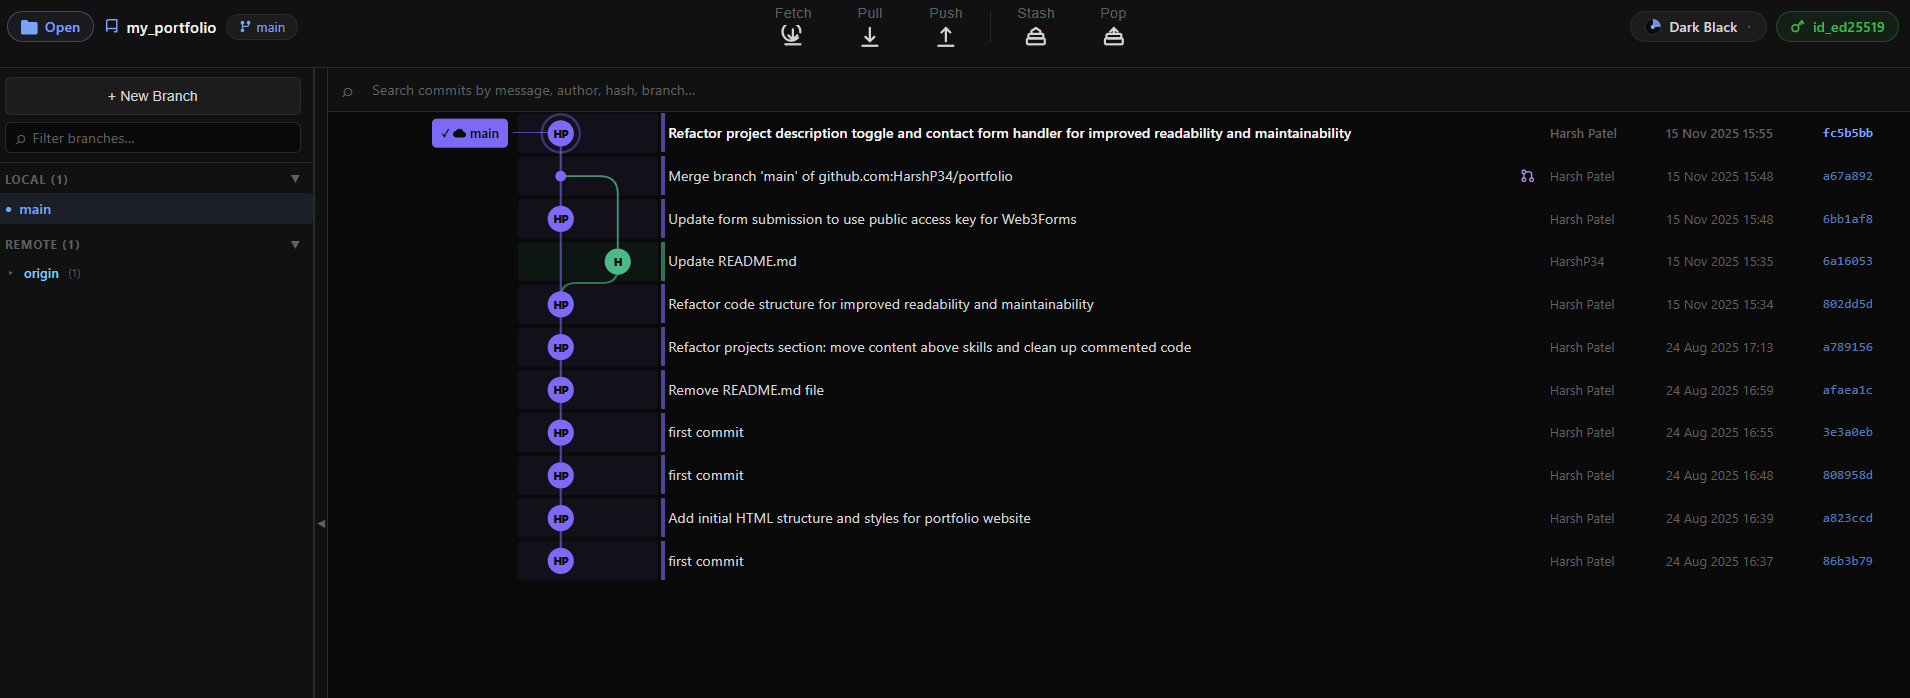
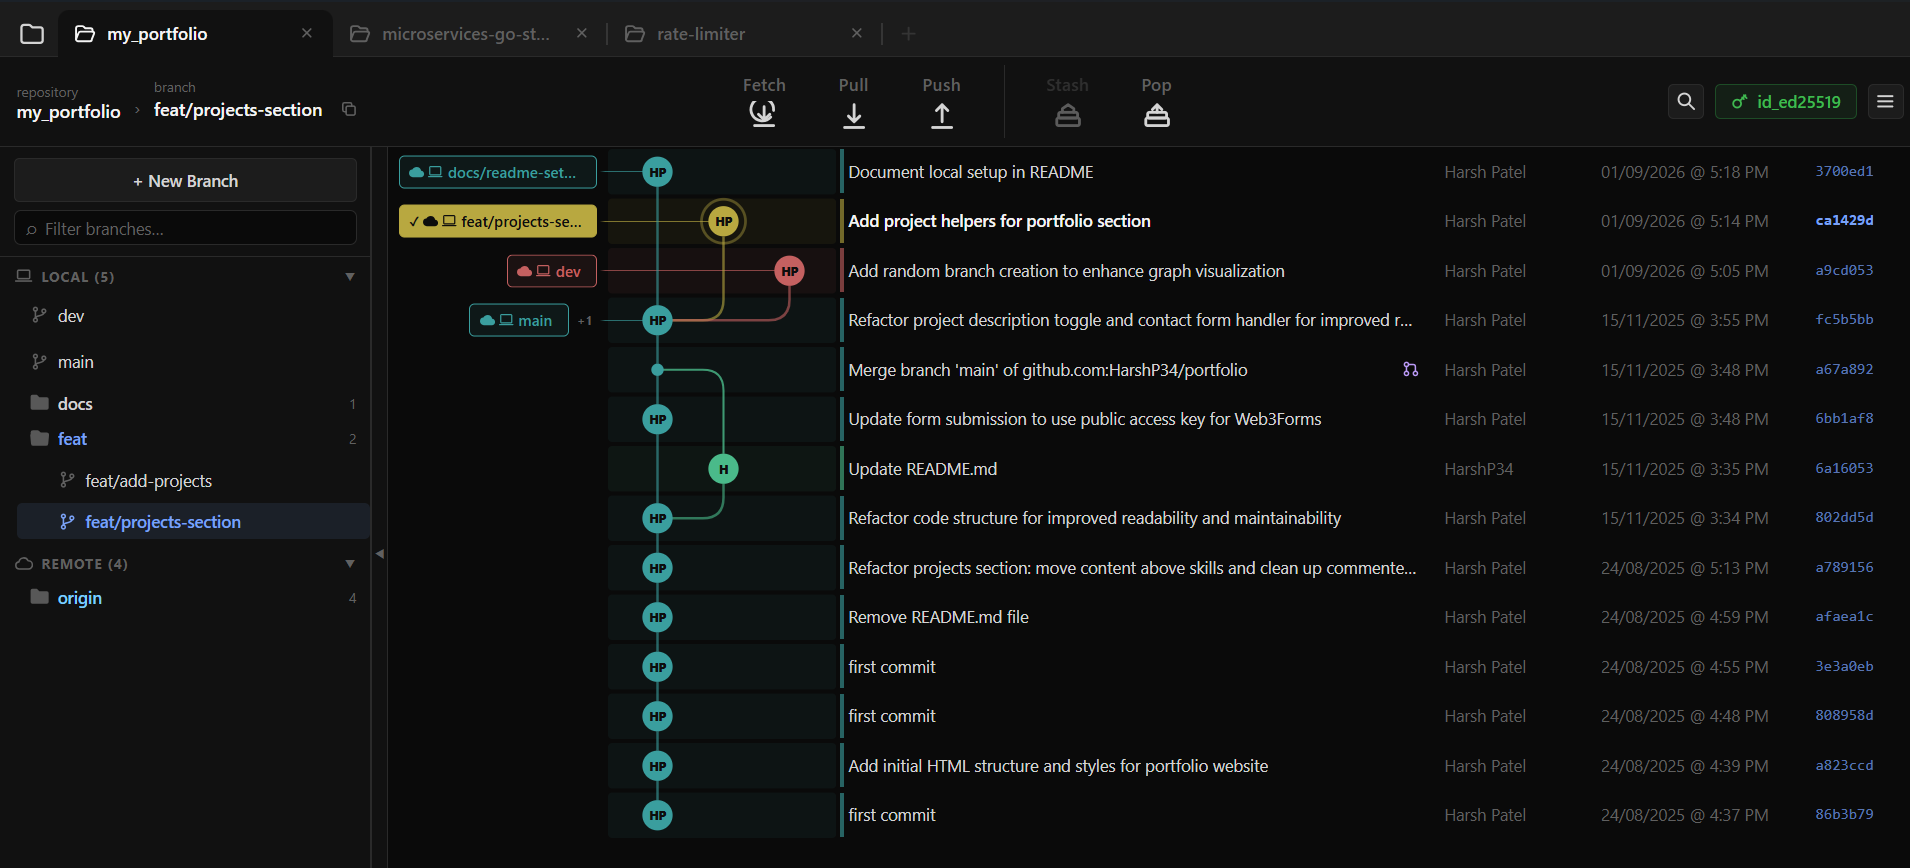
feat: update screenshots and enhance feature descriptions for clarity

diff --git a/src/data.js b/src/data.js
@@ -23,7 +23,7 @@ export const FEATURES = [
     title: 'Visual commit graph',
     description:
       'Branch lanes, author avatars, and live refresh when your repo changes — history you can actually read.',
-    highlights: ['Colored branch lanes', 'Right-click context menus', 'Zoom 30%–300%'],
+    highlights: ['Colored branch lanes', 'Right-click context menus', 'Zoom 90%–120%'],
   },
   {
     icon: 'diff',
@@ -98,7 +98,7 @@ export const FAQ = [
 ]
 
 export const INCLUDED_FEATURES = [
-  '1 open repo tab',
+  'Multi-repo support (up to 3 tabs)',
   '1,000 commits history depth',
   'Core Git operations',
   'Conflict resolution',
